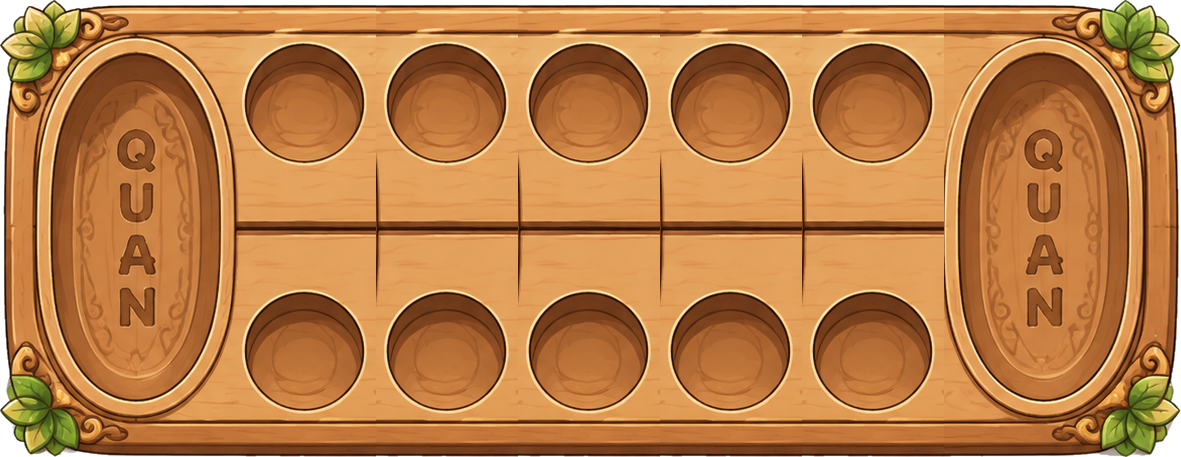
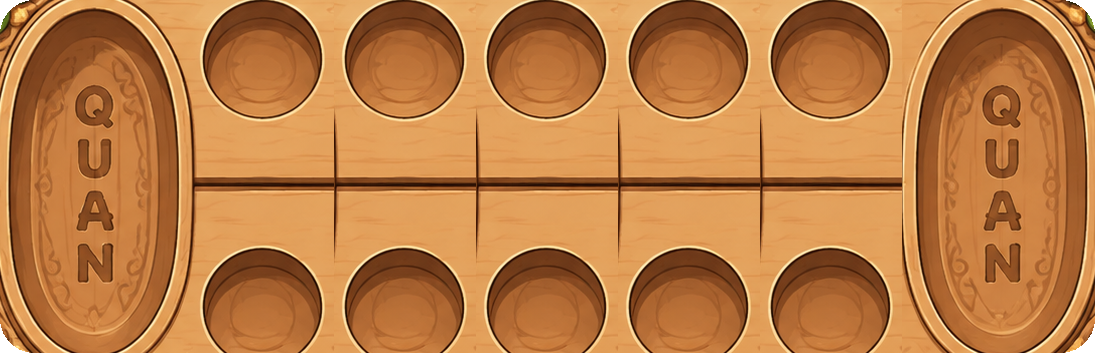
Ô Ăn Quan: cắt bỏ khung gỗ bao ngoài, bỏ nền trắng sau chữ và ghi chú dưới bàn
- Slicer cắt bàn tới sát mặt sân (mốc là hai ô Quan, chừa 8px) rồi bo nhẹ bốn
  góc, nên không còn dải gỗ sáng và mấy chùm lá bao quanh.
- Số dân và nhãn ô Quan đặt thẳng lên mặt gỗ, dùng quầng sáng quanh nét chữ
  thay cho viên nền trắng; hạt nhích lên để không đè lên số.
- Bỏ dòng nhật ký dưới bàn.

diff --git a/apps/mobile/src/games/OanQuanBoard.tsx b/apps/mobile/src/games/OanQuanBoard.tsx
@@ -1,8 +1,8 @@
 import React from 'react';
 import { Image, Pressable, View } from 'react-native';
 import { Btn, Txt } from '../components/ui';
-import { C, R, S, SEAT_COLORS } from '../theme';
-import { BoardProps, GameLog, TurnBanner, VersusBar } from './shared';
+import { C, S, SEAT_COLORS } from '../theme';
+import { BoardProps, TurnBanner, VersusBar } from './shared';
 import {
   OAN_QUAN_BOARD,
   OAN_QUAN_DECOR,
@@ -26,6 +26,16 @@ import {
  */
 
 const BOARD_RATIO = L.boardW / L.boardH;
+
+/**
+ * Chữ đặt thẳng lên mặt gỗ: quầng sáng quanh nét thay cho viên nền trắng, đọc
+ * vẫn rõ mà không có mảng trắng đè lên bàn.
+ */
+const CARVED = {
+  textShadowColor: 'rgba(255,244,222,0.95)',
+  textShadowOffset: { width: 0, height: 1 },
+  textShadowRadius: 4,
+} as const;
 
 /** Rải hạt trong lòng ô theo hai vòng, màu xen kẽ như bản vẽ. */
 function SeedPile({ count, radius, seed, salt }: { count: number; radius: number; seed: number; salt: number }) {
@@ -133,23 +143,18 @@ export default function OanQuanBoard({ view, mySeat, send, deadline, space }: Bo
             }}
           />
         ) : null}
-        <SeedPile count={count} radius={pitW * 0.3} seed={Math.max(10, pitW * 0.3)} salt={index} />
-        <View
-          pointerEvents="none"
-          style={{
-            position: 'absolute',
-            bottom: -pitH * 0.06,
-            minWidth: 18,
-            paddingHorizontal: 4,
-            borderRadius: R.pill,
-            alignItems: 'center',
-            backgroundColor: 'rgba(255,247,232,0.9)',
-          }}
-        >
-          <Txt size={Math.max(10, Math.round(pitW * 0.26))} weight="display" color="#5E3F1C">
-            {count}
-          </Txt>
+        {/* Hạt nhích lên một chút để không đè lên số dân ở đáy ô */}
+        <View pointerEvents="none" style={{ position: 'absolute', top: pitH * 0.44 }}>
+          <SeedPile count={count} radius={pitW * 0.27} seed={Math.max(10, pitW * 0.28)} salt={index} />
         </View>
+        <Txt
+          size={Math.max(10, Math.round(pitW * 0.26))}
+          weight="display"
+          color="#4A3113"
+          style={[{ position: 'absolute', bottom: pitH * 0.1 }, CARVED]}
+        >
+          {count}
+        </Txt>
       </Pressable>
     );
   };
@@ -179,22 +184,12 @@ export default function OanQuanBoard({ view, mySeat, send, deadline, space }: Bo
       >
         <Image source={art} resizeMode="contain" style={{ width: artW, height: artW / ratio }} />
         {/* Số dân đang nằm trong ô Quan */}
-        <View
-          style={{
-            position: 'absolute',
-            bottom: h * 0.06,
-            paddingHorizontal: 7,
-            paddingVertical: 1,
-            borderRadius: R.pill,
-            alignItems: 'center',
-            backgroundColor: 'rgba(255,246,229,0.92)',
-          }}
-        >
-          <Txt size={10} weight="bold" color="#5E3F1C">
+        <View style={{ position: 'absolute', bottom: h * 0.05, alignItems: 'center' }}>
+          <Txt size={11} weight="display" color="#4A3113" style={CARVED}>
             {alive ? `Quan ${view.quanValue}` : 'Đã ăn'}
           </Txt>
           {view.cells[index] ? (
-            <Txt size={9} color="#8C6239">
+            <Txt size={10} weight="bold" color="#6B4A22" style={CARVED}>
               +{view.cells[index]} dân
             </Txt>
           ) : null}
@@ -269,7 +264,6 @@ export default function OanQuanBoard({ view, mySeat, send, deadline, space }: Bo
           </View>
         ))}
       </View>
-      <GameLog log={view.log} />
     </View>
   );
 }

diff --git a/apps/mobile/src/art/oanQuan.ts b/apps/mobile/src/art/oanQuan.ts
@@ -6,30 +6,30 @@ export const OAN_QUAN_BOARD = require('../../assets/oanquan/board.png');
 
 /** Toạ độ trên bàn, ghi theo tỉ lệ 0..1 nên co giãn cỡ nào cũng đúng. */
 export const OAN_QUAN_LAYOUT = {
-  "boardW": 1181,
-  "boardH": 457,
+  "boardW": 1095,
+  "boardH": 353,
   "pitXs": [
-    0.25826,
-    0.37849,
-    0.49873,
-    0.61897,
-    0.7392
+    0.24018,
+    0.36986,
+    0.49954,
+    0.62922,
+    0.7589
   ],
-  "rowTop": 0.20131,
-  "rowBottom": 0.73742,
-  "pitW": 0.10076,
-  "pitH": 0.20569,
+  "rowTop": 0.13314,
+  "rowBottom": 0.84136,
+  "pitW": 0.10868,
+  "pitH": 0.26629,
   "quanLeft": {
-    "cx": 0.11473,
-    "cy": 0.4814,
-    "w": 0.14479,
-    "h": 0.73523
+    "cx": 0.08539,
+    "cy": 0.49858,
+    "w": 0.15616,
+    "h": 0.95184
   },
   "quanRight": {
-    "cx": 0.88357,
-    "cy": 0.48249,
-    "w": 0.14479,
-    "h": 0.73742
+    "cx": 0.91461,
+    "cy": 0.5,
+    "w": 0.15616,
+    "h": 0.95467
   }
 } as const;
 

diff --git a/apps/mobile/scripts/slice-oanquan-art.py b/apps/mobile/scripts/slice-oanquan-art.py
@@ -61,6 +61,21 @@ def cutout(im, mask, box):
 
 
 FEATHER = 14
+# Mặt sân rộng hơn hai ô Quan chừng này pixel; cắt tới đó là hết khung gỗ ngoài.
+FRAME_MARGIN = 8
+# Bo nhẹ bốn góc cho khỏi trông như bị chặt phăng.
+CORNER_RADIUS = 34
+
+
+def rounded_alpha(img, radius):
+    """Alpha hiện có, nhân thêm mặt nạ bo góc."""
+    from PIL import ImageDraw
+
+    mask = Image.new("L", img.size, 0)
+    ImageDraw.Draw(mask).rounded_rectangle([0, 0, img.size[0] - 1, img.size[1] - 1], radius, fill=255)
+    return Image.fromarray(
+        (np.array(img.split()[3], dtype=float) * (np.array(mask, dtype=float) / 255)).astype("uint8"), "L"
+    )
 
 
 def blend_paste(canvas, tile, x):
@@ -187,7 +202,27 @@ def main():
     for i in range(lanes):
         blend_paste(canvas, tile, tile_x0 + i * pitch)
     blend_paste(canvas, bimg.crop((right_x0, 0, bw, bh)), tile_x0 + pitch * lanes)
+
+    left_oval, right_oval = sorted(ovals)
+    shift = new_w - bw
+
+    # Cắt bỏ khung gỗ sáng bao quanh (kèm mấy chùm lá ở góc) để chỉ còn mặt sân.
+    # Mốc là hai ô Quan: mặt sân chỉ rộng hơn chúng đúng một khoảng nhỏ.
+    m = FRAME_MARGIN
+    cx0 = max(0, left_oval[0] - m)
+    cx1 = min(new_w, right_oval[0] + shift + right_oval[2] + m)
+    cy0 = max(0, min(left_oval[1], right_oval[1]) - m)
+    cy1 = min(bh, max(left_oval[1] + left_oval[3], right_oval[1] + right_oval[3]) + m)
+    canvas = canvas.crop((cx0, cy0, cx1, cy1))
+    new_w, bh = canvas.size
+    canvas.putalpha(rounded_alpha(canvas, CORNER_RADIUS))
     canvas.save(os.path.join(OUT_IMG, "board.png"))
+
+    # Mọi toạ độ bên dưới tính trên bàn đã cắt.
+    tile_x0 -= cx0
+    left_oval = (left_oval[0] - cx0, left_oval[1] - cy0, left_oval[2], left_oval[3])
+    right_oval = (right_oval[0] + shift - cx0, right_oval[1] - cy0, right_oval[2], right_oval[3])
+    round_pits = [(x - cx0, y - cy0, w, h) for (x, y, w, h) in round_pits]
 
     ys = sorted({round(p[1] / 5) * 5 for p in round_pits})
     top_y = min(ys)
@@ -197,16 +232,14 @@ def main():
     row_bottom = (bottom_y + pit_h / 2) / bh
     pit_xs = [(tile_x0 + i * pitch + pitch / 2) / new_w for i in range(lanes)]
 
-    left_oval, right_oval = sorted(ovals)
     quan_left = {
         "cx": (left_oval[0] + left_oval[2] / 2) / new_w,
         "cy": (left_oval[1] + left_oval[3] / 2) / bh,
         "w": left_oval[2] / new_w,
         "h": left_oval[3] / bh,
     }
-    shift = new_w - bw
     quan_right = {
-        "cx": (right_oval[0] + shift + right_oval[2] / 2) / new_w,
+        "cx": (right_oval[0] + right_oval[2] / 2) / new_w,
         "cy": (right_oval[1] + right_oval[3] / 2) / bh,
         "w": right_oval[2] / new_w,
         "h": right_oval[3] / bh,
